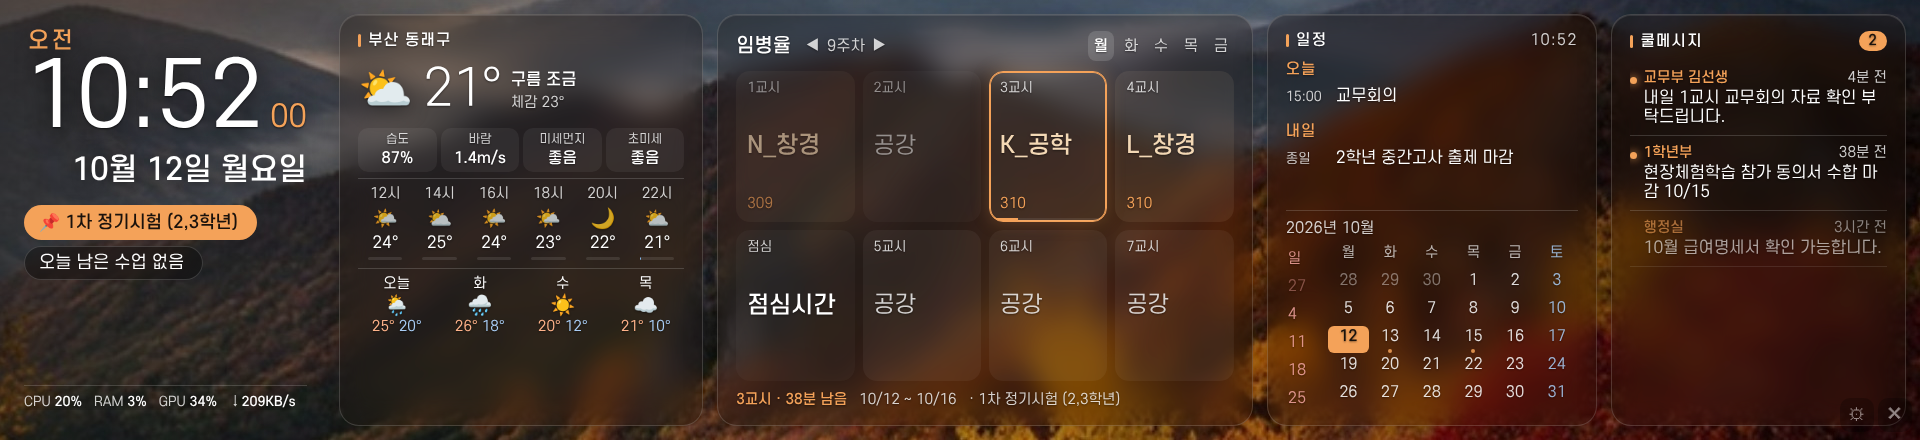
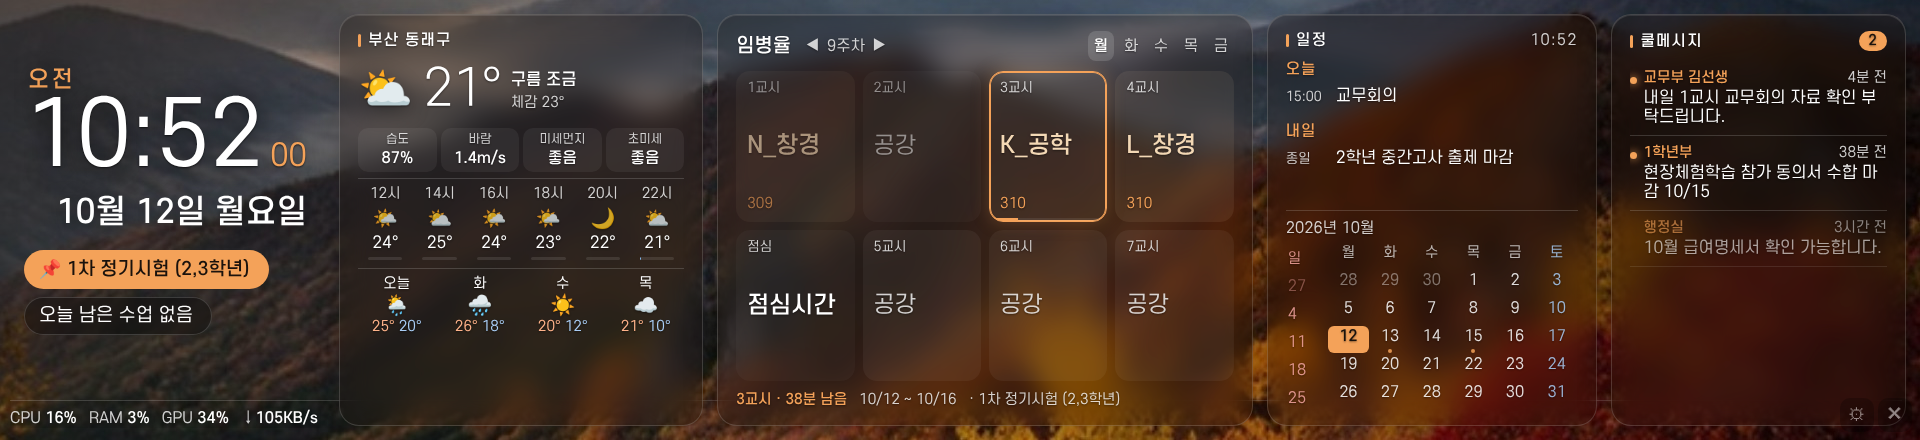
시계 칸 세로 가운데 정렬·확대, PC 한 줄은 하단 고정
Claude-Session: https://claude.ai/code/session_01QUPbRqurHMyWrBwvsguQbh

Changed region(s): [[0.0, 0.0591, 0.1562, 0.4136], [0.0, 0.4432, 0.1562, 0.7386], [0.0, 0.8864, 0.1562, 0.975]]

diff --git a/web/index.html b/web/index.html
@@ -21,7 +21,7 @@
   /* 세로 모드 (440×1920): 패널을 위에서 아래로 */
   body.portrait #stage { width: 440px; height: 1920px; }
   body.portrait #root { flex-direction: column; height: 1920px; }
-  body.portrait #clock { padding: 24px 16px 10px; --w: 420; }
+  body.portrait #clock { padding: 24px 16px 52px; --w: 420; }
   body.portrait #tt { --w: 640; }
   body.portrait #ttList { grid-template-columns: repeat(2, 1fr); grid-template-rows: repeat(4, 1fr); }
   body.portrait #bg::after { background: linear-gradient(180deg, rgba(0,0,0,.45), rgba(0,0,0,.15) 40%, rgba(0,0,0,.15) 60%, rgba(0,0,0,.45)); }
@@ -40,7 +40,7 @@
   #topbar #closeBtn:hover { color: var(--bad); }
   body.detail #topbar { display: none; }
   /* 시계 아래 PC 한 줄 */
-  #pcMini { flex: none; margin-top: 8px; padding-top: 8px; border-top: 1px solid var(--line); font-size: 15px; color: var(--muted); display: flex; gap: 12px;
+  #pcMini { position: absolute; left: 10px; right: 18px; bottom: 12px; padding-top: 8px; border-top: 1px solid var(--line); font-size: 15px; color: var(--muted); display: flex; gap: 12px;
     white-space: nowrap; overflow: hidden; cursor: pointer; font-variant-numeric: tabular-nums; }
   #pcMini b { color: var(--text); font-weight: 500; }
   /* 메시지 패널 */
@@ -69,14 +69,14 @@
 
   /* 시계 — 패널 없이 배경 위에 */
   #clock { background: none; border: 0; box-shadow: none; backdrop-filter: none; -webkit-backdrop-filter: none;
-    justify-content: flex-start; padding-left: 10px; padding-top: 10px; text-shadow: 0 2px 18px rgba(0,0,0,.55); }
+    justify-content: center; padding: 10px 18px 52px 10px; text-shadow: 0 2px 18px rgba(0,0,0,.55); }
   #ampm { font-size: 22px; color: var(--accent); font-weight: 500; letter-spacing: .12em; margin: 4px 0 2px 4px; }
-  #time { font-size: 112px; font-weight: 400; line-height: .95; letter-spacing: -1px; white-space: nowrap; font-variant-numeric: tabular-nums; text-shadow: 0 3px 24px rgba(0,0,0,.75), 0 1px 2px rgba(0,0,0,.6); }
+  #time { font-size: 120px; font-weight: 400; line-height: .95; letter-spacing: -1px; white-space: nowrap; font-variant-numeric: tabular-nums; text-shadow: 0 3px 24px rgba(0,0,0,.75), 0 1px 2px rgba(0,0,0,.6); }
   #time span { font-size: 30px; font-weight: 400; color: var(--accent); margin-left: 8px; letter-spacing: 0; }
   #dayBar { margin-top: 10px; height: 4px; border-radius: 2px; background: rgba(255,255,255,.14); overflow: hidden; width: 86%; margin-left: auto; }
   #dayBar i { display: block; height: 100%; width: 0; background: linear-gradient(90deg, var(--accent), #fff3); transition: width 1s linear; }
   #dayTxt { font-size: 15px; color: var(--muted); margin-top: 5px; text-align: right; }
-  #date { font-size: 30px; margin-top: 12px; font-weight: 500; text-align: right; }
+  #date { font-size: 32px; margin-top: 14px; font-weight: 500; text-align: right; }
 
   /* 날씨 */
   .wnow { display: flex; align-items: center; gap: 14px; }
@@ -165,8 +165,8 @@
   .net { margin-top: auto; padding-top: 8px; border-top: 1px solid var(--line); display: flex; justify-content: space-between; gap: 8px; font-size: 15px; color: var(--muted); line-height: 1.4; font-variant-numeric: tabular-nums; white-space: nowrap; }
   .net b { color: var(--text); font-weight: 600; }
   /* 시계 아래 오늘 요약 */
-  #todayBox { margin-top: 16px; display: flex; flex-direction: column; gap: 6px; text-shadow: none; flex: 1 1 auto; min-height: 0; overflow: hidden; }
-  .tchip { display: inline-flex; align-items: center; gap: 8px; align-self: flex-start; font-size: 17px; padding: 6px 18px 6px 14px; border-radius: 999px;
+  #todayBox { margin-top: 18px; display: flex; flex-direction: column; gap: 8px; text-shadow: none; flex: 0 1 auto; min-height: 0; overflow: hidden; }
+  .tchip { display: inline-flex; align-items: center; gap: 8px; align-self: flex-start; font-size: 18px; padding: 7px 18px 7px 14px; border-radius: 999px;
     background: rgba(0,0,0,.35); backdrop-filter: blur(8px); border: 1px solid var(--line); max-width: 100%; white-space: nowrap; overflow: hidden; text-overflow: ellipsis; }
   .tchip.hl { color: #1a120c; background: var(--accent); border-color: transparent; font-weight: 500; }
   .tchip b { font-weight: 600; }
